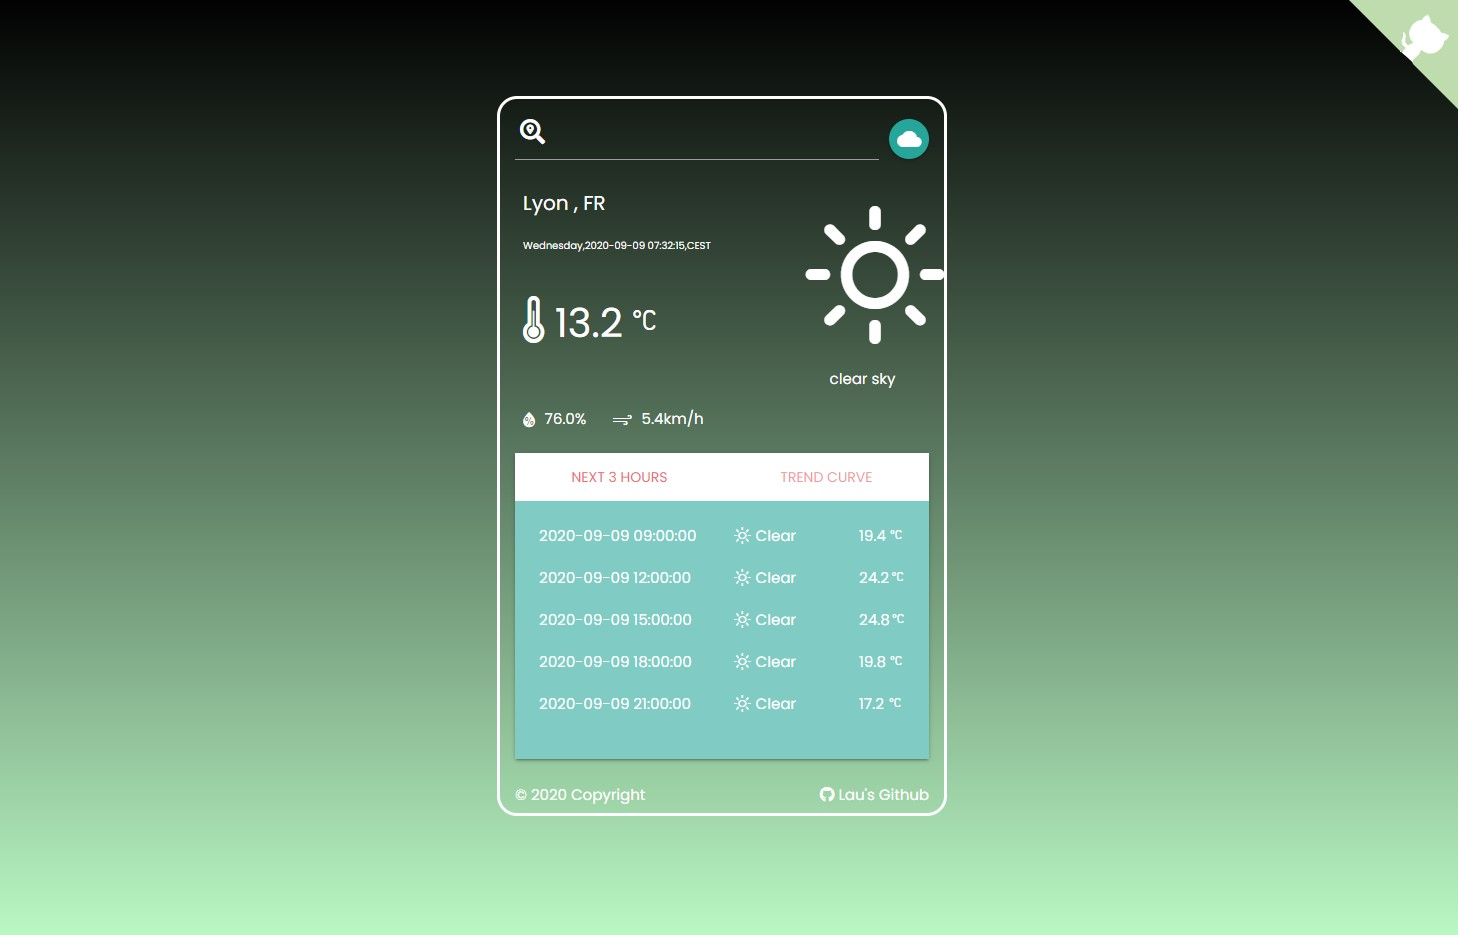
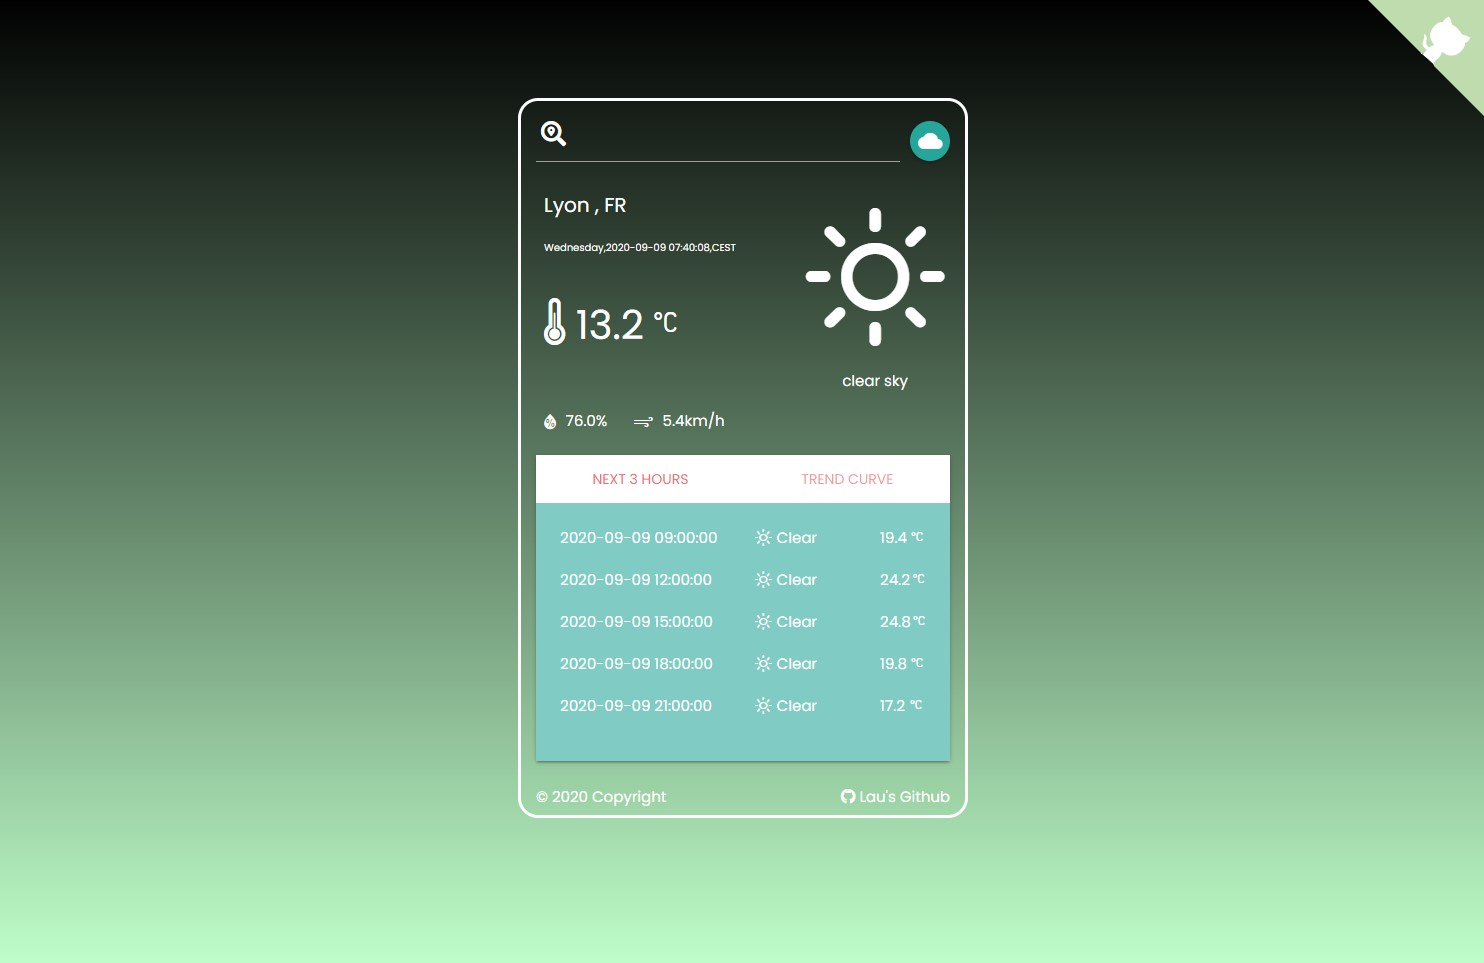
ver9sep2020

diff --git a/weatherfrontend/src/App.css b/weatherfrontend/src/App.css
@@ -34,7 +34,7 @@ p + p + p {
   position: relative;
   font-size: 125px;
   padding-top: 45px;
-  padding-left: 50px;
+  padding-left: 25px;
 }
 
 .weatherdescription {
